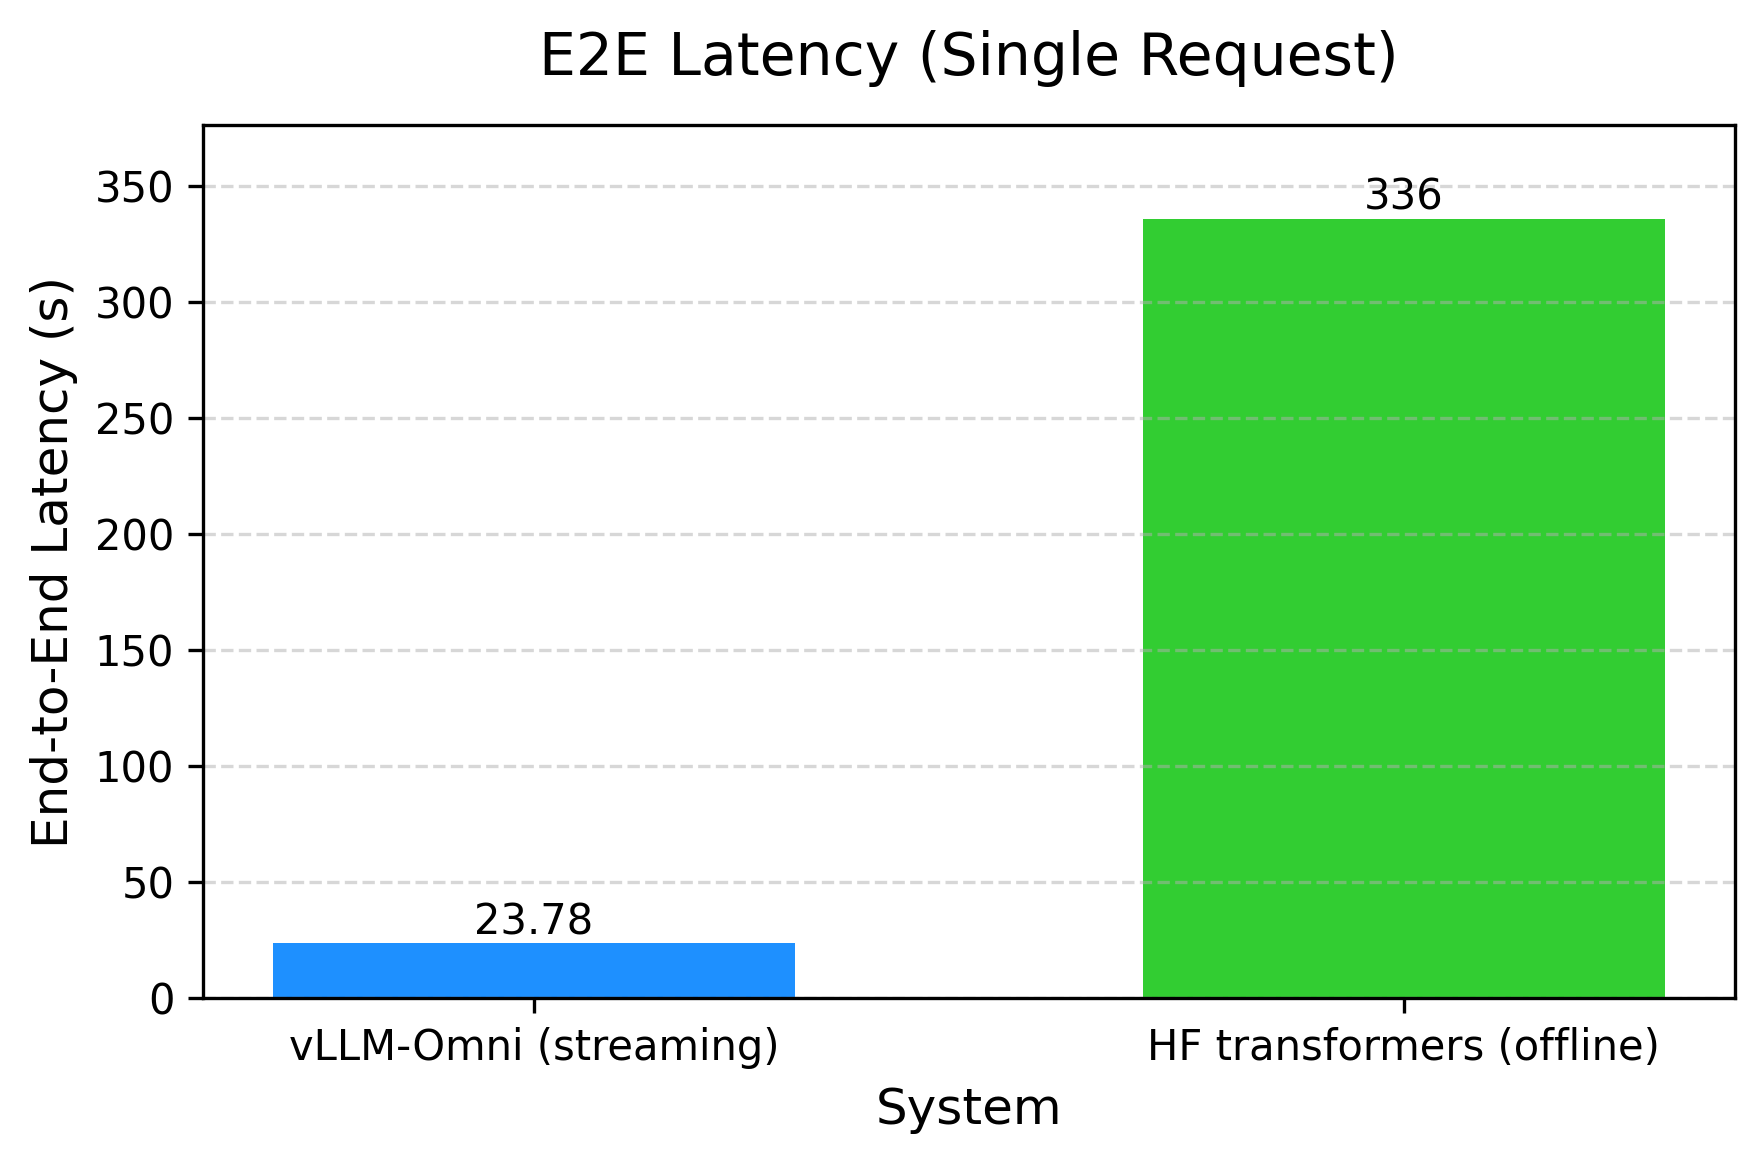
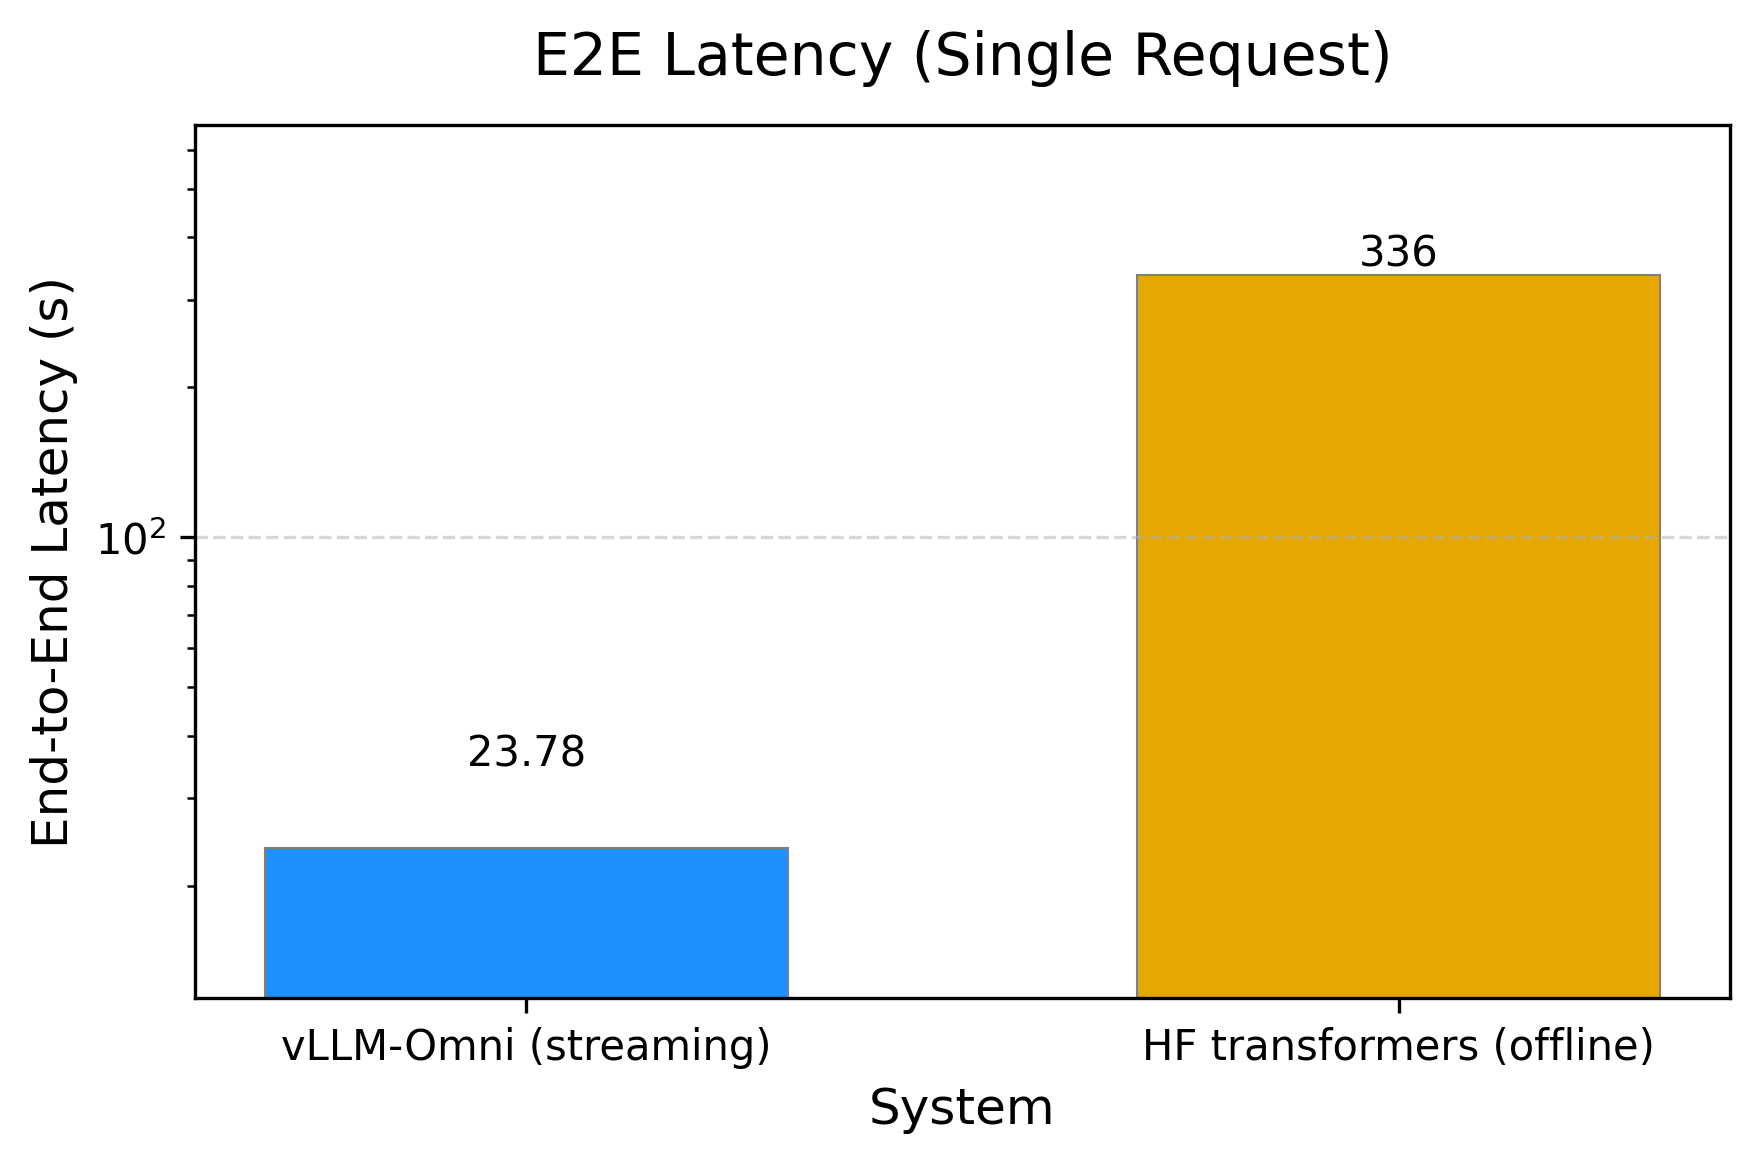
qwe3 omni perf

diff --git a/docs/design/plot_vllm_omni_vs_transformers.py b/docs/design/plot_vllm_omni_vs_transformers.py
@@ -6,25 +6,35 @@ matplotlib.use("Agg")
 import matplotlib.pyplot as plt
 from pathlib import Path
 
-# Match plot_comparison.py style
-COLORS = ["#1E90FF", "#32CD32"]  # blue, green
+# vLLM-Omni blue, HF transformers yellow for clear contrast
+COLORS = ["#1E90FF", "#E6A800"]  # blue, yellow/amber
 FIG_DIR = Path(__file__).resolve().parent / "figures"
 FIG_DIR.mkdir(parents=True, exist_ok=True)
 
 
-def make_chart(title, ylabel, labels, values, outpath):
+def make_chart(title, ylabel, labels, values, outpath, use_log_scale=False):
     fig, ax = plt.subplots(figsize=(6, 4))
-    bars = ax.bar(labels, values, color=COLORS, width=0.6)
+    bars = ax.bar(labels, values, color=COLORS, width=0.6, edgecolor="gray", linewidth=0.5)
     ax.set_title(title, fontsize=14, pad=12)
     ax.set_ylabel(ylabel, fontsize=12)
     ax.set_xlabel("System", fontsize=12)
     ax.grid(axis="y", linestyle="--", alpha=0.5)
-    ax.set_ylim(0, max(values) * 1.12)
+
+    if use_log_scale:
+        ax.set_yscale("log")
+        lo, hi = min(values), max(values)
+        ax.set_ylim(lo * 0.5, hi * 2)
+    else:
+        ax.set_ylim(0, max(values) * 1.12)
+
     for bar, v in zip(bars, values):
         label = f"{v:.2f}" if v < 100 else f"{v:,.0f}"
+        y_pos = bar.get_height()
+        if use_log_scale and y_pos < ax.get_ylim()[1] / 20:
+            y_pos = y_pos * 1.4  # place label above bar so it's visible
         ax.text(
             bar.get_x() + bar.get_width() / 2,
-            bar.get_height(),
+            y_pos,
             label,
             ha="center",
             va="bottom",
@@ -45,6 +55,7 @@ def main():
         labels,
         [23.78, 336.10],
         FIG_DIR / "E2EL_s_vllm_omni_vs_transformers.png",
+        use_log_scale=True,
     )
     make_chart(
         "Streaming Latency (TTFP)",
@@ -52,6 +63,7 @@ def main():
         labels,
         [0.934, 336.10],
         FIG_DIR / "TTFP_s_vllm_omni_vs_transformers.png",
+        use_log_scale=True,
     )
     make_chart(
         "Real-Time Factor (RTF) (Single Request)",
